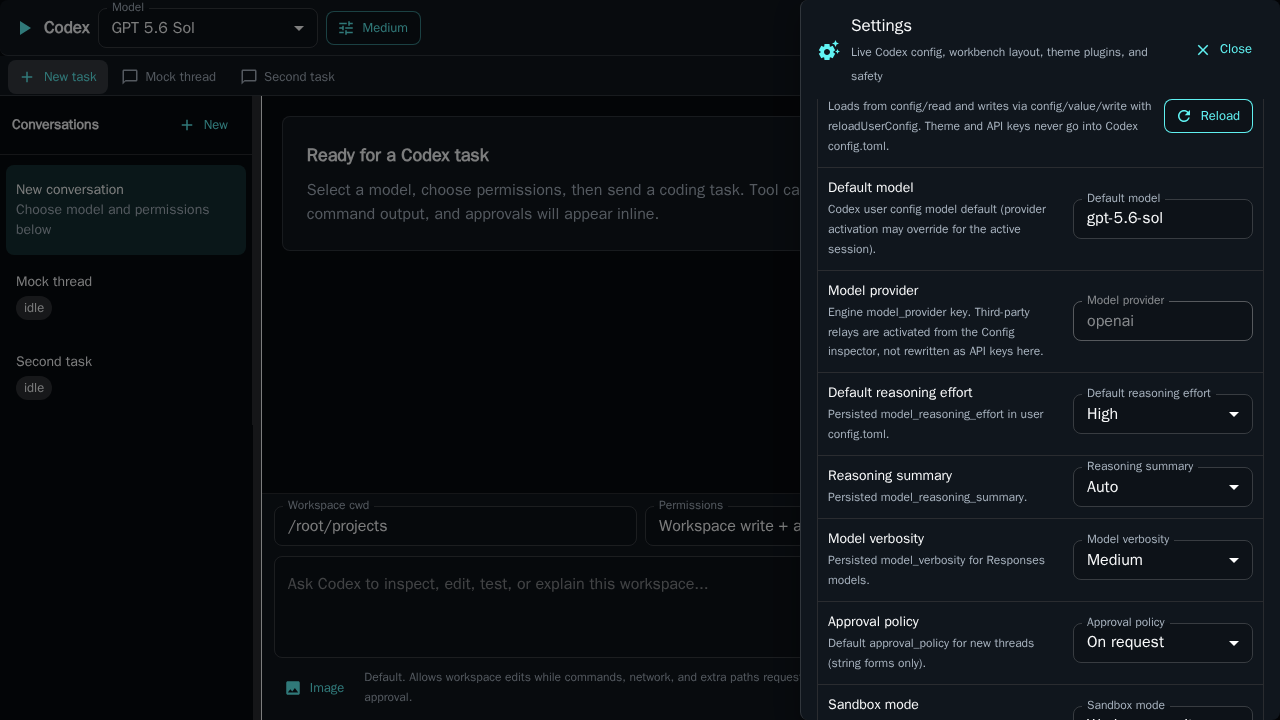
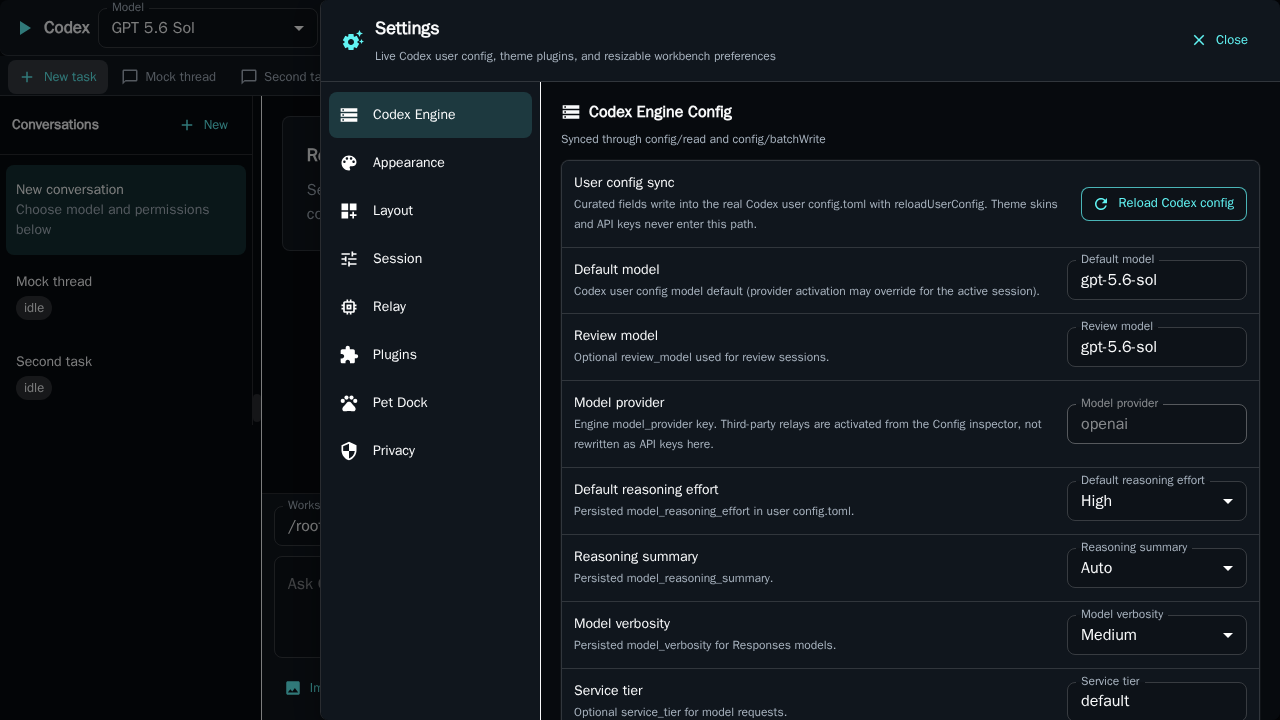
patrol: auto-commit codex-react-ui changes (snapshot/codex-ui-files-resizable.png snapshot/codex-ui-settings-appearance.png snapshot/codex-ui-settings-layout.png snapshot/codex-ui-settings-open.png tests/e2e/workbench.spec.ts )

diff --git a/tests/e2e/workbench.spec.ts b/tests/e2e/workbench.spec.ts
@@ -678,7 +678,7 @@ test("loads live Codex config in Settings and persists edits via config/batchWri
   await page.getByLabel("Custom theme primary").fill("#0EA5E9");
   await page.getByLabel("Custom theme secondary").fill("#F97316");
   await page.getByLabel("Custom theme background").fill("#0B1220");
-  await page.getByRole("switch", { name: "Custom theme dark mode" }).check();
+  await page.getByRole("switch", { name: "Dark" }).check();
   await page.getByLabel("Save custom theme plugin").click();
   await expect(page.locator("html")).toHaveAttribute("data-color-scheme", /user-aurora-studio-/);
 